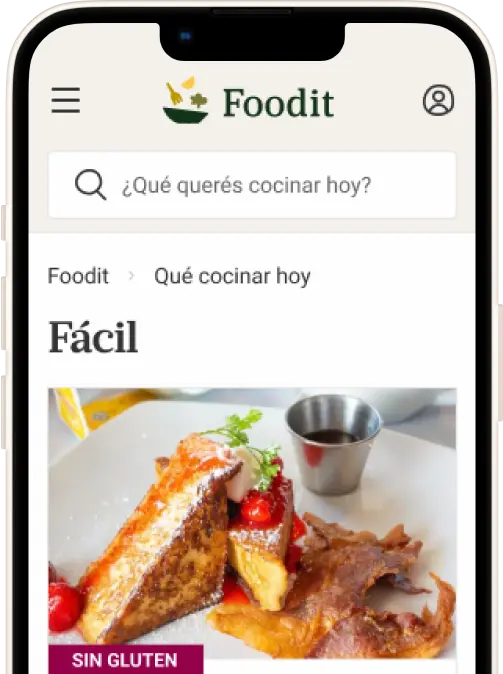
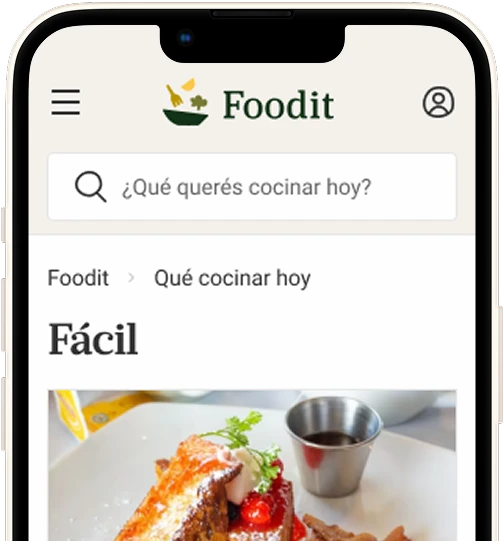
Foodit caja de ventas - Update lib sass - Se modifica tanto el texto como imagenes de la caja de ventas en home de foodit

diff --git a/components/features/foodit-global/common/saleBox/foodit.jsx b/components/features/foodit-global/common/saleBox/foodit.jsx
@@ -36,20 +36,19 @@ export function SaleBox({ ...props }) {
     };
     return (
         <section className="bg-positive relative w-100vw as-center" {...props}>
-            <div className="container relative pt-56 pb-56_md pb-0_lg px-16 px-24_md px-32_lg grid grid-cols-12_md grid-cols-16_lg jc-center ai-center ai-start_md gap-24 gap-64_md">
-                <div className="col-span-8 col-span-7_md col-span-9_lg flex flex-column gap-24 ai-center ai-start_md pb-56_lg">
+            <div className="container relative pt-56 pb-0_md px-16 px-24_md px-32_lg grid grid-cols-12_md grid-cols-16_lg jc-center ai-center ai-start_md gap-24 gap-64_md">
+                <div className="col-span-8 col-span-7_md col-span-9_lg flex flex-column gap-24 ai-center ai-start_md pb-56_md">
                     <Text
                         as="h2"
                         className="prumo prumo-semibold text-light-800 text-24 text-28_md text-center text-start_md"
                     >
-                        Somos Foodit. La plataforma que te ayuda a cocinar todos
-                        los días. ¿Por qué suscribirte?
+                        Tres motivos para suscribirte hoy a Foodit
                     </Text>
                     <div>
                         {mockBenefits.map(beneficts => (
                             <div
                                 key={useId()}
-                                className="flex ai-center gap-4 mb-12 text-light-700"
+                                className="flex ai-center roboto roboto-regular gap-4 mb-12 text-light-700"
                             >
                                 <Icon className="text-light-700" size={20}>
                                     <IconSprite name="check" />
@@ -75,7 +74,7 @@ export function SaleBox({ ...props }) {
                 </div>
                 <div className="col-span-8 col-span-5_md col-span-7_lg js-center as-end">
                     <Adaptableimage
-                        className="relative z-5 h-336 h-509_md h-461_lg"
+                        className="relative z-5"
                         sources={imgsPhoneFoodit(assetsPath)}
                         src={assetsPath('phone-foodit-mobile.webp')}
                         alt="Imagen celular con la app de Foodit abierta"

diff --git a/components/features/foodit-global/common/saleBox/helper.js b/components/features/foodit-global/common/saleBox/helper.js
@@ -1,10 +1,7 @@
 export const mockBenefits = [
-    '<span class="roboto-bold">Empezá a comer mejor</span> con nuestros menús semanales creados por nutricionistas.',
-    '<span class="roboto-bold">Ahorrá tiempo</span> con una gran variedad de recetas fáciles, rápidas, y ricas. Todo en un solo lugar.',
-    '<span class="roboto-bold">Dejá de cocinar siempre lo mismo.</span> Usá Foodit para conocer nuevos platos y sabores.',
-    '<span class="roboto-bold">Sin complicaciones.</span> Recetas probadas con información clara y simple. Armá tu recetario y listas de compras de ingredientes.',
-    '<span class="roboto-bold">Trucos y secretos.</span> Aprendé con nuestras masterclasses, guías de cocina y notas sobre técnicas, ingredientes y consejos prácticos.',
-    'Con la suscripción de Foodit + Club LA NACION accedé a cientos de descuentos y beneficios y <span class="roboto-bold">ahorrá más de lo que cuesta la suscripción.</span>'
+    '<span class="roboto-bold">Recetas y menús para todos:</span> Planes semanales y miles de opciones fáciles y ricas en un solo lugar.',
+    '<span class="roboto-bold">Cociná sin complicaciones:</span> Guardá recetas generá lista de compras y ahorrá tiempo.',
+    '<span class="roboto-bold">Más beneficios para vos:</span> Elegí Foodit solo o con Club LA NACION y accedé a beneficios en supermercado, deco, hogar y mucho más.'
 ];
 
 export const imgsPhoneFoodit = assetsPath => [

diff --git a/resources/packages/css/@ln/foodit-ui-sass/index.css b/resources/packages/css/@ln/foodit-ui-sass/index.css
@@ -1529,6 +1529,10 @@ strong {
     max-width: 30.1875rem;
   }
 }
+.min-w-209 {
+  min-width: 13.0625rem;
+}
+
 .min-w-360 {
   min-width: 22.5rem;
 }
@@ -1717,6 +1721,10 @@ strong {
     max-height: 6.25rem;
   }
 }
+.min-h-14 {
+  min-height: 0.875rem;
+}
+
 .min-h-344 {
   min-height: 21.5rem;
 }
@@ -2072,6 +2080,9 @@ strong {
   }
   .pt-48_md {
     padding-top: 3rem;
+  }
+  .pb-0_md {
+    padding-bottom: 0rem;
   }
   .pb-24_md {
     padding-bottom: 1.5rem;

diff --git a/components/features/foodit-global/Body/PowerupsReceta/ingredientsBox/shoppingListButton.jsx b/components/features/foodit-global/Body/PowerupsReceta/ingredientsBox/shoppingListButton.jsx
@@ -21,7 +21,7 @@ function ShoppingListButton({
 
     return (
         <Button
-            title="Agregar"
+            title="Agregar a lista"
             size={{ sm: 32, md: 40 }}
             onClick={() =>
                 handleIngredientListButton({
